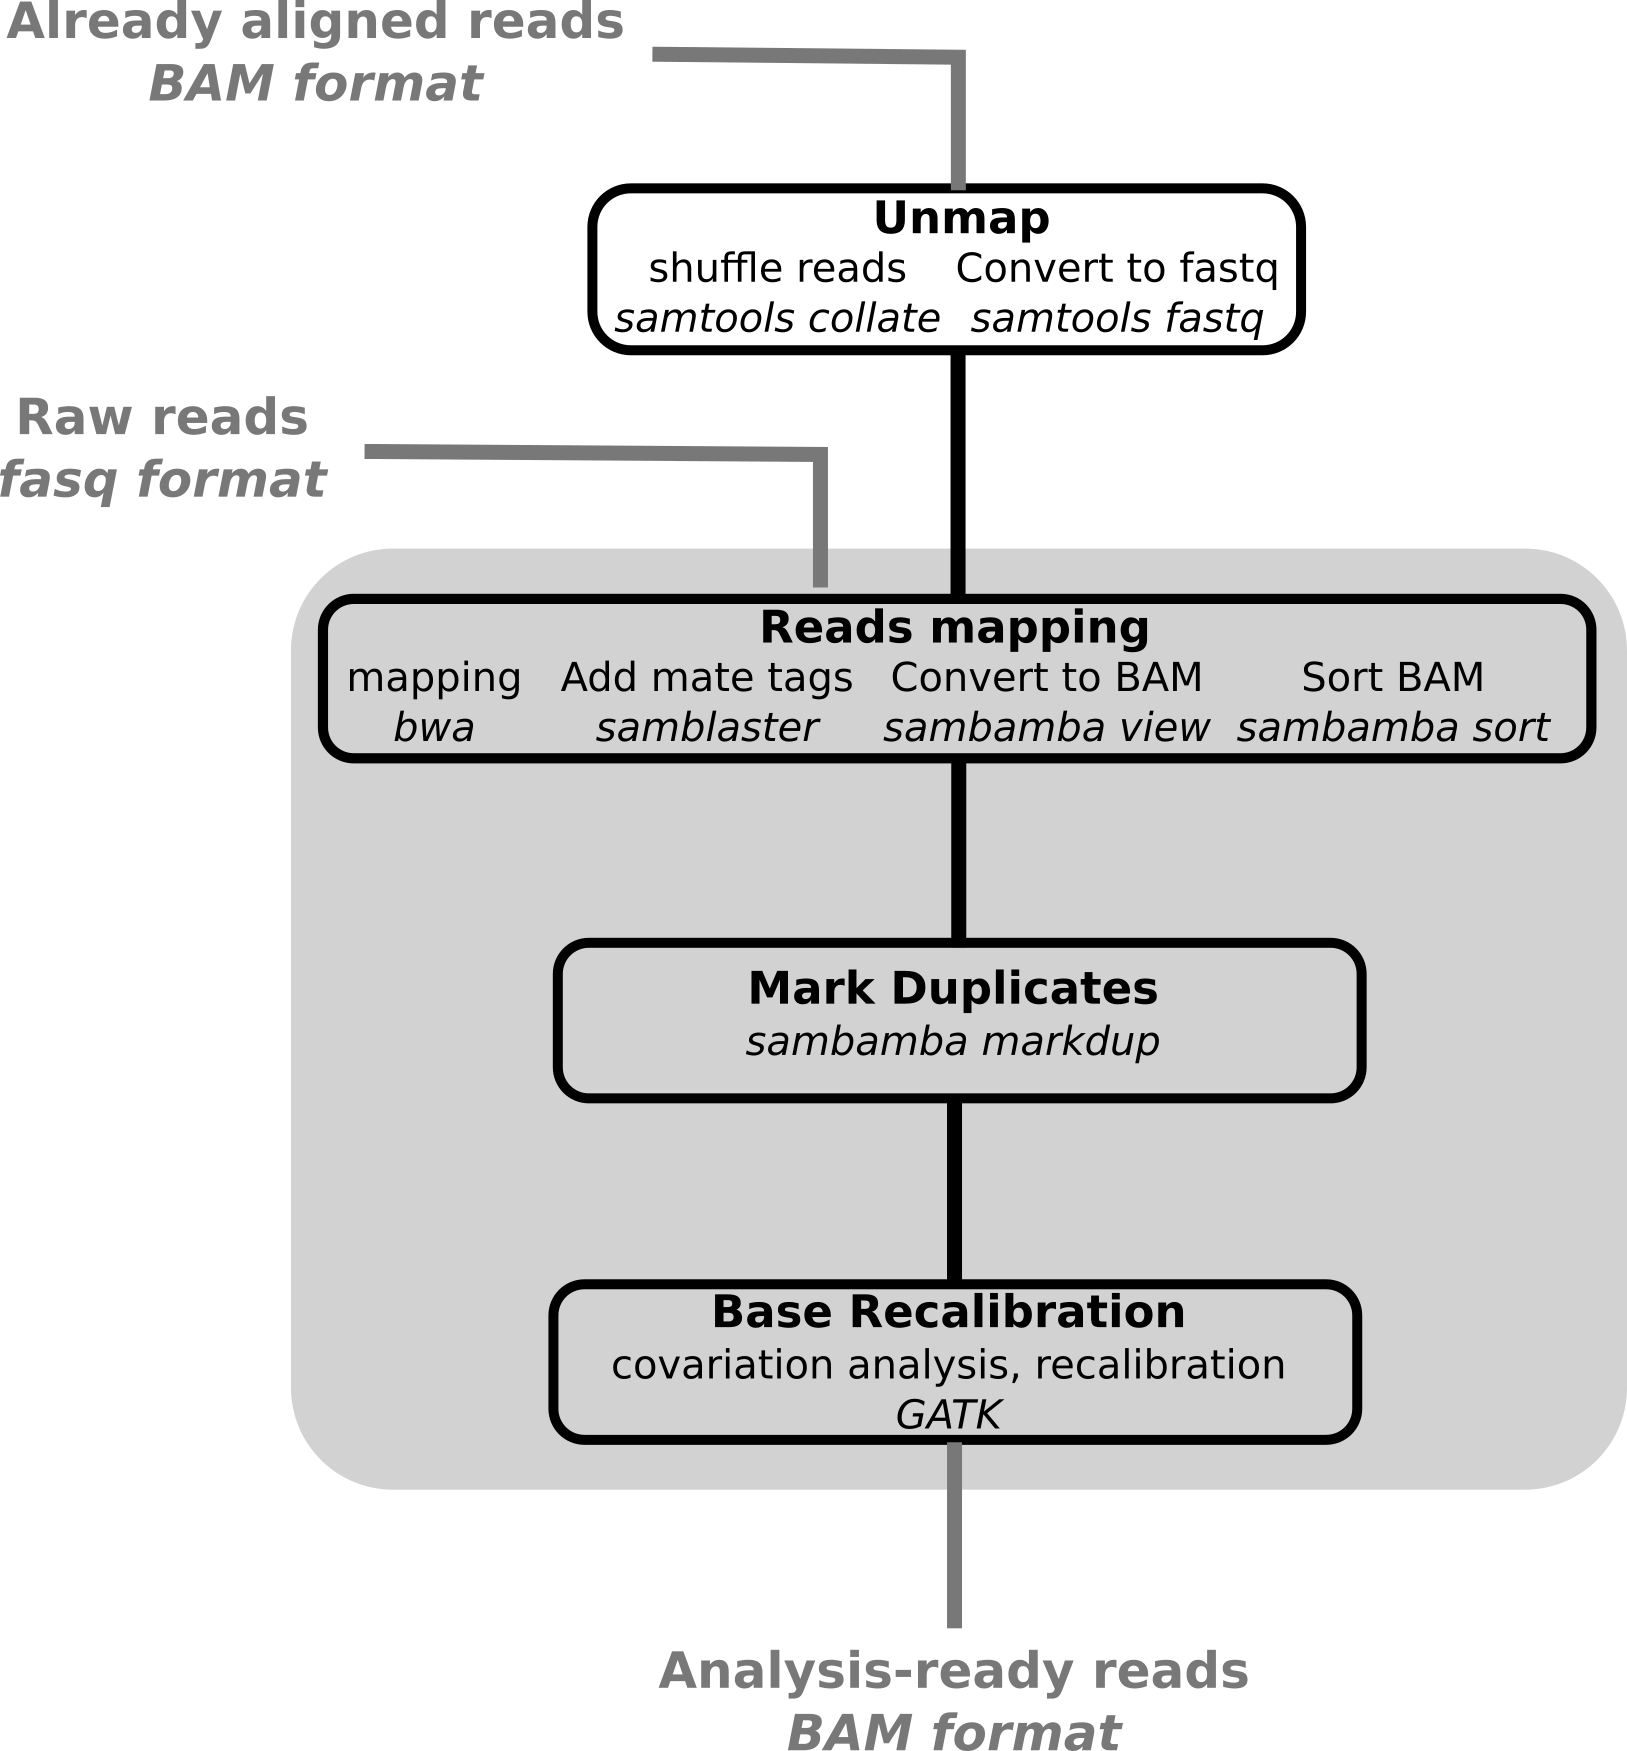
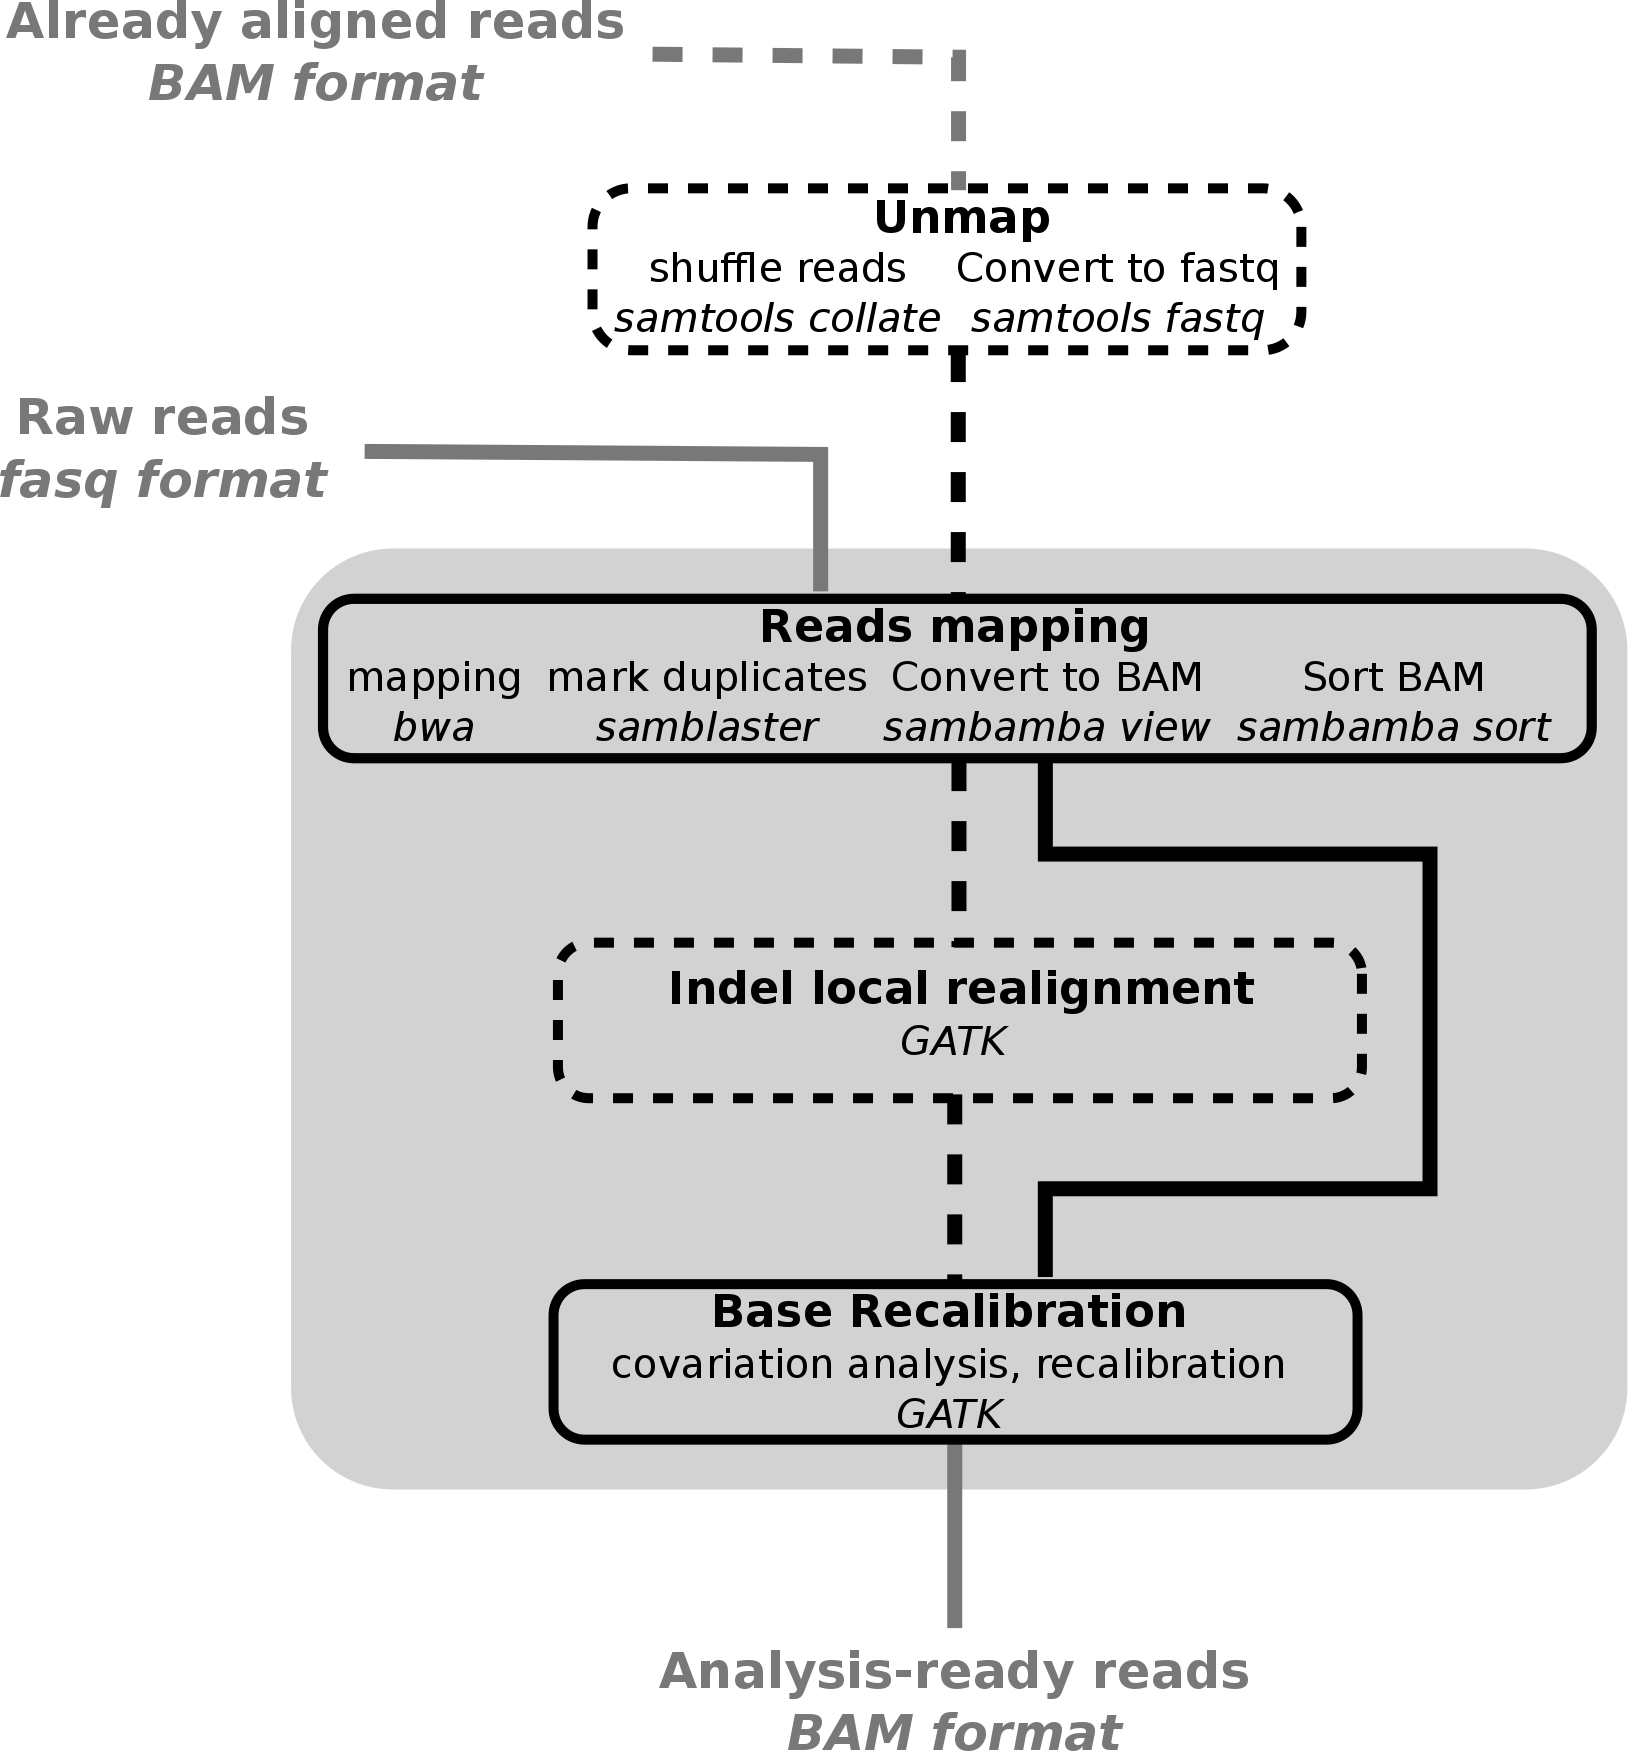
improved pipeline scheme

diff --git a/README.md b/README.md
@@ -1,1 +1,3 @@
 # alignment-nf
+
+![workflow](WESpipeline.pdf?raw=true "Workflow")
